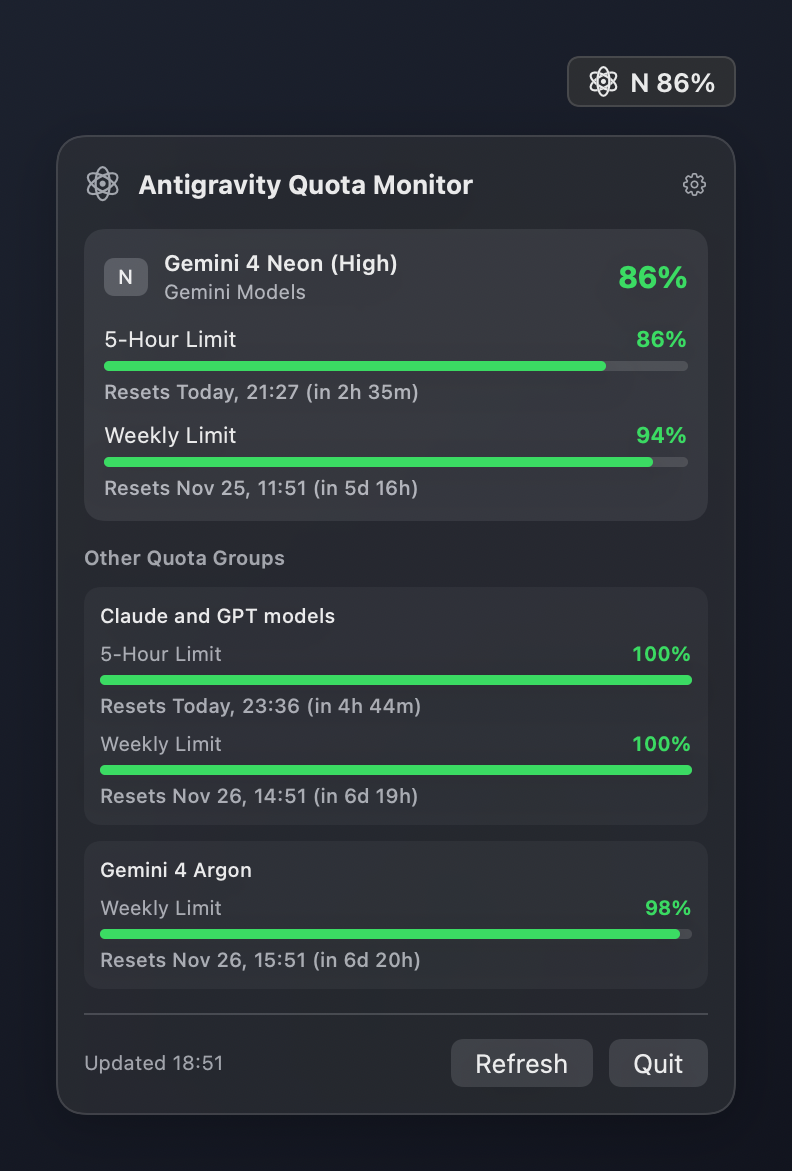
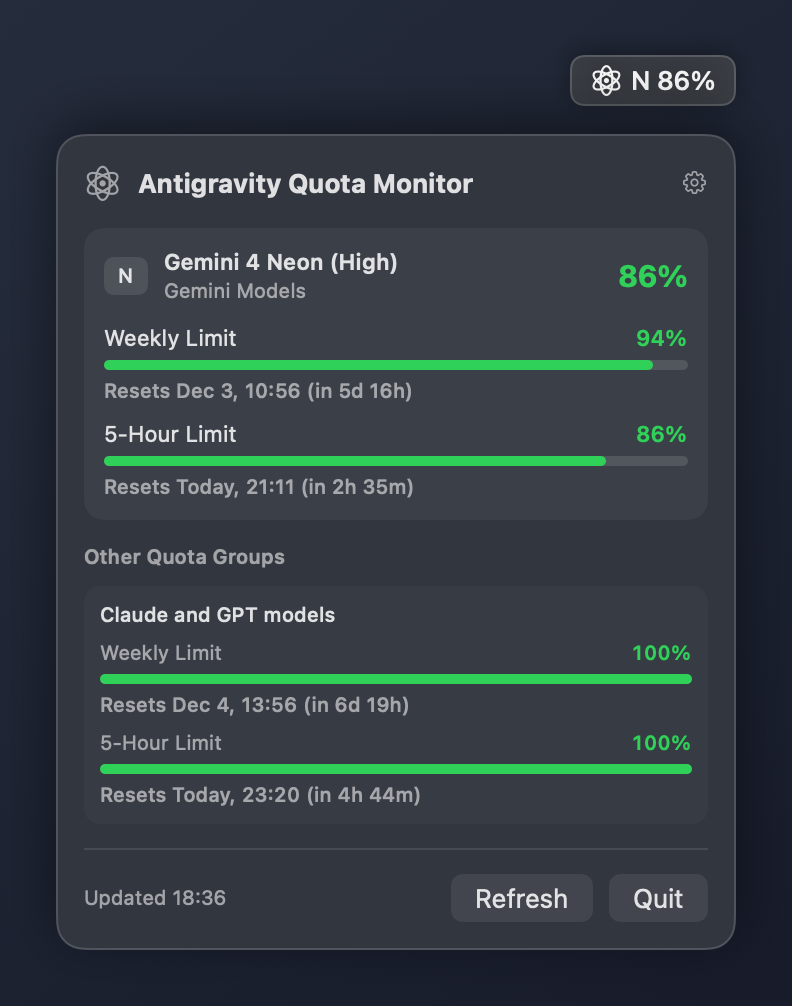
docs: update README screenshots for unified Gemini quota pool and v1.3.0

Changed region(s): [[0.0606, 0.1233, 0.8788, 0.832], [0.0606, 0.8628, 0.9394, 0.9553], [0.697, 0.0308, 0.9394, 0.1849]]

diff --git a/README.md b/README.md
@@ -16,7 +16,7 @@ Antigravity Quota Monitor lives unobtrusively in the macOS menu bar (`LSUIElemen
 - **Full Model & Effort Support:** Recognizes the Gemini 4 family (`Gemini 4 Neon`, `Gemini 4 Carbon`, `Gemini 4 Argon`, `Gemini 4 Hydrogen`), multi-step `Orchestrator` planner variants (`Orchestrator (Neon)`, `Orchestrator (Carbon)`, `Orchestrator (Argon)`, `Orchestrator (Claude Opus 5.5)`), `Gemini 3.8 Flash`, and third-party models (`Claude Opus 5.5`, `Claude Sonnet 5.5`, `GPT-OSS 120B`) across all reasoning effort tiers (`Low`, `Medium`, `High`, `XHigh` / `Extra High`, `Thinking`).
 - **Detailed Quota Popover:**
   - Active Xcode model label, matched quota group, and color-coded limiting percentage
-  - 5-hour and weekly quota progress bars with local-timezone reset timestamps and relative countdowns
+  - Weekly and 5-hour quota progress bars with local-timezone reset timestamps and relative countdowns
   - Secondary view of all other available quota groups (such as `Claude and GPT models` or `Gemini Models`)
   - Clear status messages for missing Accessibility permission, inactive Xcode sessions, unmatched models, stale snapshots, and CLI errors
   - Last updated timestamp, manual `Refresh` (`Cmd + R`), inline `Settings`, and `Quit` (`Cmd + Q`)
@@ -113,7 +113,7 @@ Because macOS GUI applications launched from Finder do not inherit interactive s
 
 ## Supported Model Groups
 
-Based on current Antigravity CLI (`agy 1.5.16+`) usage output (subject to account configuration and future CLI updates):
+Based on current Antigravity CLI (`agy 1.5.16+`, verified on `1.5.18`) usage output (subject to account configuration and future CLI updates):
 
 | Model | Menu Bar Badge | Effort / Planner Variants | Quota Group | Quota Windows |
 |---|---|---|---|---|
